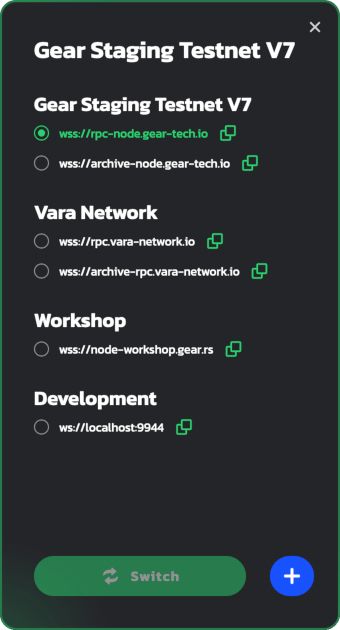
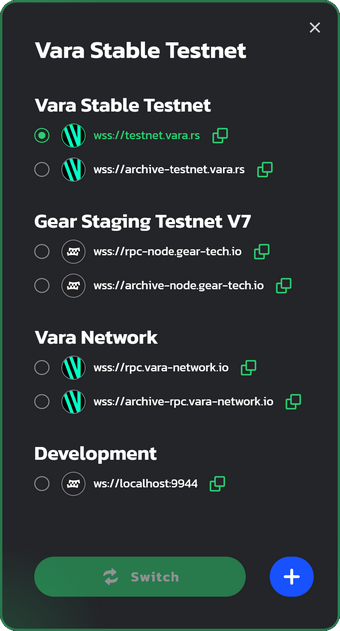
ap-network-update

diff --git a/docs/getting-started-in-5-minutes.md b/docs/getting-started-in-5-minutes.md
@@ -18,7 +18,7 @@ This guide provides a general overview of running smart contracts on the network
     For example, on Ubuntu use:
 
     ```bash
-    sudo apt install -y clang build-essential
+    sudo apt install -y build-essential clang cmake
     ```
 
     On macOS, you can get a compiler toolset by running:
@@ -203,7 +203,7 @@ Gear provides a demo application that implements all of the possibilities of int
 
     ![Allow access](./img/getting-started/polkadot-access.png)
 
-6. Make sure you are connected to the `Gear Staging Testnet V7`. The network name is on the bottom left corner of the page.
+6. Make sure you are connected to the `Vara Stable Testnet`. The network name is on the bottom left corner of the page.
 
     ![Network name](./img/getting-started/idea-network.png)
 
